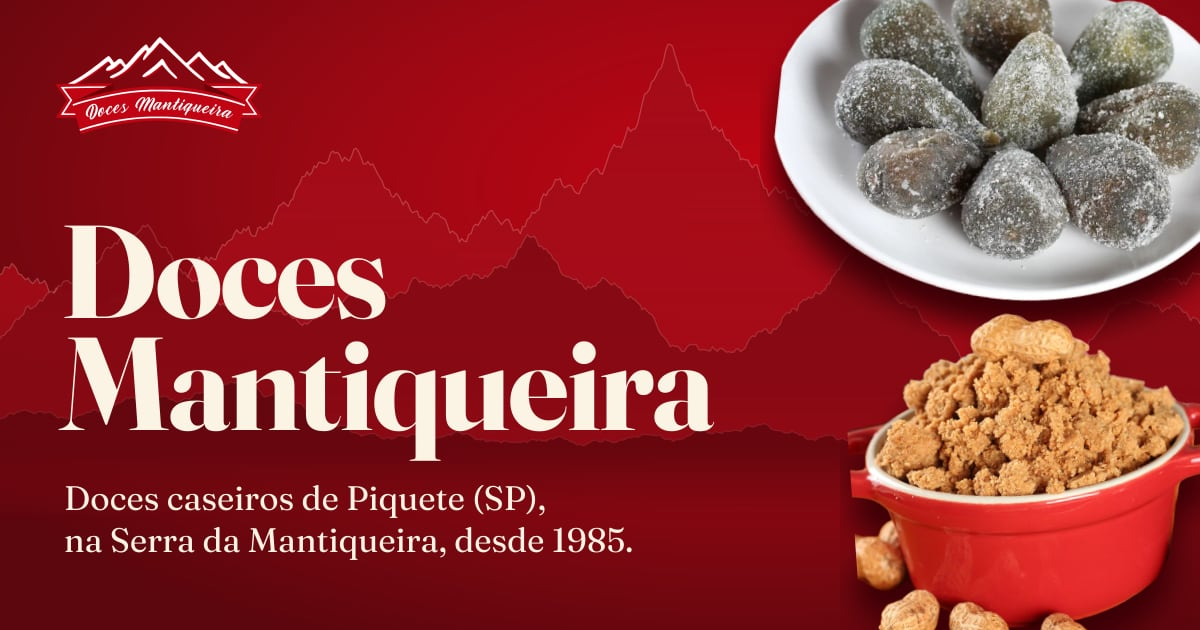
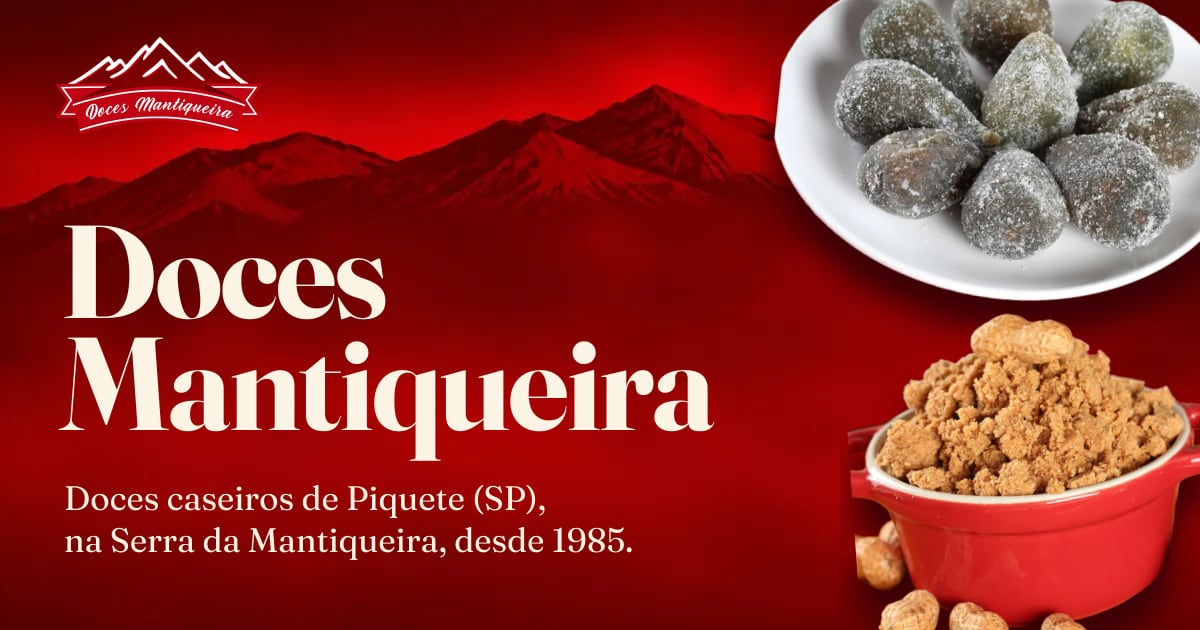
Troca a serra desenhada pela foto da serra no vermelho
A foto cobre o hero, o menu do celular e a revenda (versões otimizadas
pelo Astro). Os tons de vinho do site, do rodapé e da barra fixa passam a
seguir os da foto, e a prévia OG usa a mesma imagem de fundo. Remove o
gerador da serra em SVG.

diff --git a/src/styles/global.css b/src/styles/global.css
@@ -1,5 +1,5 @@
 /* Doces Mantiqueira — base do site (v3).
-   Vermelho profundo com a serra sombreada, serifa clássica nos títulos, filetes dourados. */
+   Vermelho profundo com a foto da serra, serifa clássica nos títulos, filetes dourados. */
 
 :root {
   /* Paleta (contraste conferido no CLAUDE.md, todos os pares ≥ 4,5:1) */
@@ -10,10 +10,10 @@
   --caramelo: #8a5a1f;
   --mel: #f2c14e;
   --serra: #3e5a3a;
-  /* Derivados para o degradê do hero e os filetes */
-  --vinho: #5c060d;
+  /* Derivados do tom da foto da serra (cantos #4d0200, névoa #ab0202, brilho #d00206) */
+  --vinho: #5a0201;
   --dourado: rgb(242 193 78 / 0.65);
-  --fundo-vermelho: radial-gradient(120% 90% at 62% 30%, #c10413 0%, #9a0813 45%, var(--vinho) 100%);
+  --fundo-vermelho: radial-gradient(120% 95% at 50% 55%, #ab0202 0%, #7f0201 45%, #4d0200 100%);
 
   /* Tipografia */
   --titulo: var(--fonte-titulo), Georgia, serif;
